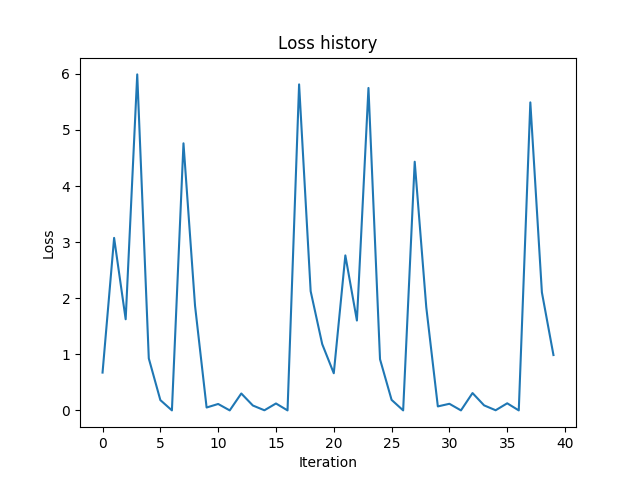
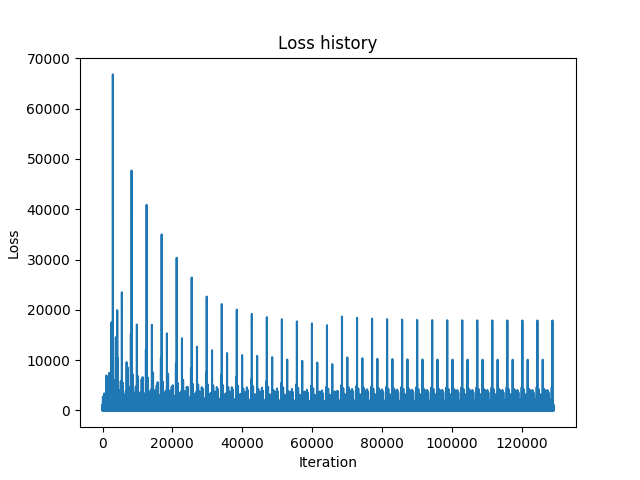
rnn

diff --git a/homework/assignment3/rnn.py b/homework/assignment3/rnn.py
@@ -13,19 +13,19 @@ import tree as tr
 from utils import Vocab
 import six
 
-RESET_AFTER = 50
+RESET_AFTER = 200
 class Config(object):
     """Holds model hyperparams and data information.
        Model objects are passed a Config() object at instantiation.
     """
-    embed_size = 35
+    embed_size = 3
     label_size = 2
     early_stopping = 2
     anneal_threshold = 0.99
     anneal_by = 1.5
     max_epochs = 30
-    lr = 1e-4
-    l2 = 0.02
+    lr = 1e-2
+    l2 = 0
     model_name = 'rnn_embed=%d_l2=%f_lr=%f.weights'%(embed_size, l2, lr)
 
 
@@ -33,7 +33,7 @@ class RNN_Model():
 
     def load_data(self):
         """Loads train/dev/test data and builds vocabulary."""
-        self.train_data, self.dev_data, self.test_data = tr.simplified_data(700, 100, 200)
+        self.train_data, self.dev_data, self.test_data = tr.simplified_data(1500, 100, 200)
 
         # build vocab from training data
         self.vocab = Vocab()
@@ -72,12 +72,14 @@ class RNN_Model():
         with tf.variable_scope('Composition',reuse=tf.AUTO_REUSE):
             self.embedding = tf.get_variable("L", dtype = tf.float32,
                                              initializer = tf.random_uniform(shape=(len(self.vocab),
-                                                                                    self.config.embed_size)))
+                                                                                    self.config.embed_size),
+                                                                             minval = -1.0/np.sqrt(self.config.embed_size),
+          maxval = 1.0/np.sqrt(self.config.embed_size)))                                                                   
             self.W1 = tf.get_variable("W1", dtype = tf.float32,
                                            initializer = tf.random_uniform(shape = (2*self.config.embed_size,
                                                                                     self.config.embed_size),
-                                                                           minval = -1.0,
-                                                                           maxval = 1.0))
+                                                                           minval = -1.0/np.sqrt(self.config.embed_size),
+                                                                           maxval = 1.0/np.sqrt(self.config.embed_size)))
             self.b1 = tf.get_variable("b1", dtype = tf.float32, shape = (1,self.config.embed_size),
                                       initializer=tf.zeros_initializer())
 
@@ -86,8 +88,8 @@ class RNN_Model():
             ### YOUR CODE HERE
             self.U = tf.get_variable("U", dtype=tf.float32,
                                      initializer=tf.random_uniform(shape=(self.config.embed_size,self.config.label_size),
-                                                                   minval=-1.0,
-                                                                   maxval=1.0))
+                                                                   minval=-1.0/np.sqrt(self.config.embed_size),
+                                                                                       maxval=1.0/np.sqrt(self.config.embed_size)))
             self.bs = tf.get_variable("b2", dtype=tf.float32, shape = (1,self.config.label_size),
                                       initializer=tf.zeros_initializer())
             ### END YOUR CODE
@@ -161,9 +163,11 @@ class RNN_Model():
         Returns:
             loss: tensor 0-D
         """
-        loss = None
-        # YOUR CODE HERE
-        loss = tf.nn.sparse_softmax_cross_entropy_with_logits(labels=labels,logits=logits)
+        with tf.variable_scope("Projection",reuse=tf.AUTO_REUSE):
+            loss = None
+            loss = tf.nn.sparse_softmax_cross_entropy_with_logits(labels=labels,logits=logits)
+            loss += self.config.l2*tf.nn.l2_loss(self.U)
+            loss += self.config.l2*tf.nn.l2_loss(self.W1)
         # END YOUR CODE
         return loss
 
@@ -188,8 +192,10 @@ class RNN_Model():
         """
         train_op = None
         # YOUR CODE HERE
-        optimizer = tf.train.GradientDescentOptimizer(self.config.lr)
-        train_op = optimizer.minimize(loss)
+        with tf.variable_scope("Projection", reuse=tf.AUTO_REUSE):
+            #optimizer = tf.train.AdagradOptimizer(self.config.lr)
+            optimizer = tf.train.GradientDescentOptimizer(self.config.lr)
+            train_op = optimizer.minimize(loss)
         # END YOUR CODE
         return train_op
 
@@ -237,11 +243,6 @@ class RNN_Model():
         while step < len(self.train_data):
             with tf.Graph().as_default(), tf.Session() as sess:
                 self.add_model_vars()
-                if new_model:
-                    sess.run(tf.global_variables_initializer())
-                else:
-                    saver = tf.train.Saver()
-                    saver.restore(sess, './weights/%s.temp'%self.config.model_name)
                 for _ in range(RESET_AFTER):
                     if step>=len(self.train_data):
                         break
@@ -250,6 +251,12 @@ class RNN_Model():
                     labels = [l for l in tree.labels if l!=2]
                     loss = self.loss(logits, labels)
                     train_op = self.training(loss)
+                    if new_model:
+                        sess.run(tf.global_variables_initializer())
+                    else:
+                        saver = tf.train.Saver()
+                        saver.restore(sess, './weights/%s.temp'%self.config.model_name)
+
                     loss, _ = sess.run([loss, train_op])
                     loss_history.append(loss)
                     if verbose:                        
@@ -268,8 +275,8 @@ class RNN_Model():
         train_acc = np.equal(train_preds, train_labels).mean()
         val_acc = np.equal(val_preds, val_labels).mean()
 
-        print('Training acc (only root node): {}'.format(train_acc))
-        print('Valiation acc (only root node): {}'.format(val_acc))
+        print('Training acc (only root node): {}\n'.format(train_acc))
+        print('Validation acc (only root node): {}\n'.format(val_acc))
         print(self.make_conf(train_labels, train_preds))
         print(self.make_conf(val_labels, val_preds))
         return train_acc, val_acc, loss_history, np.mean(np.concatenate(val_losses))
